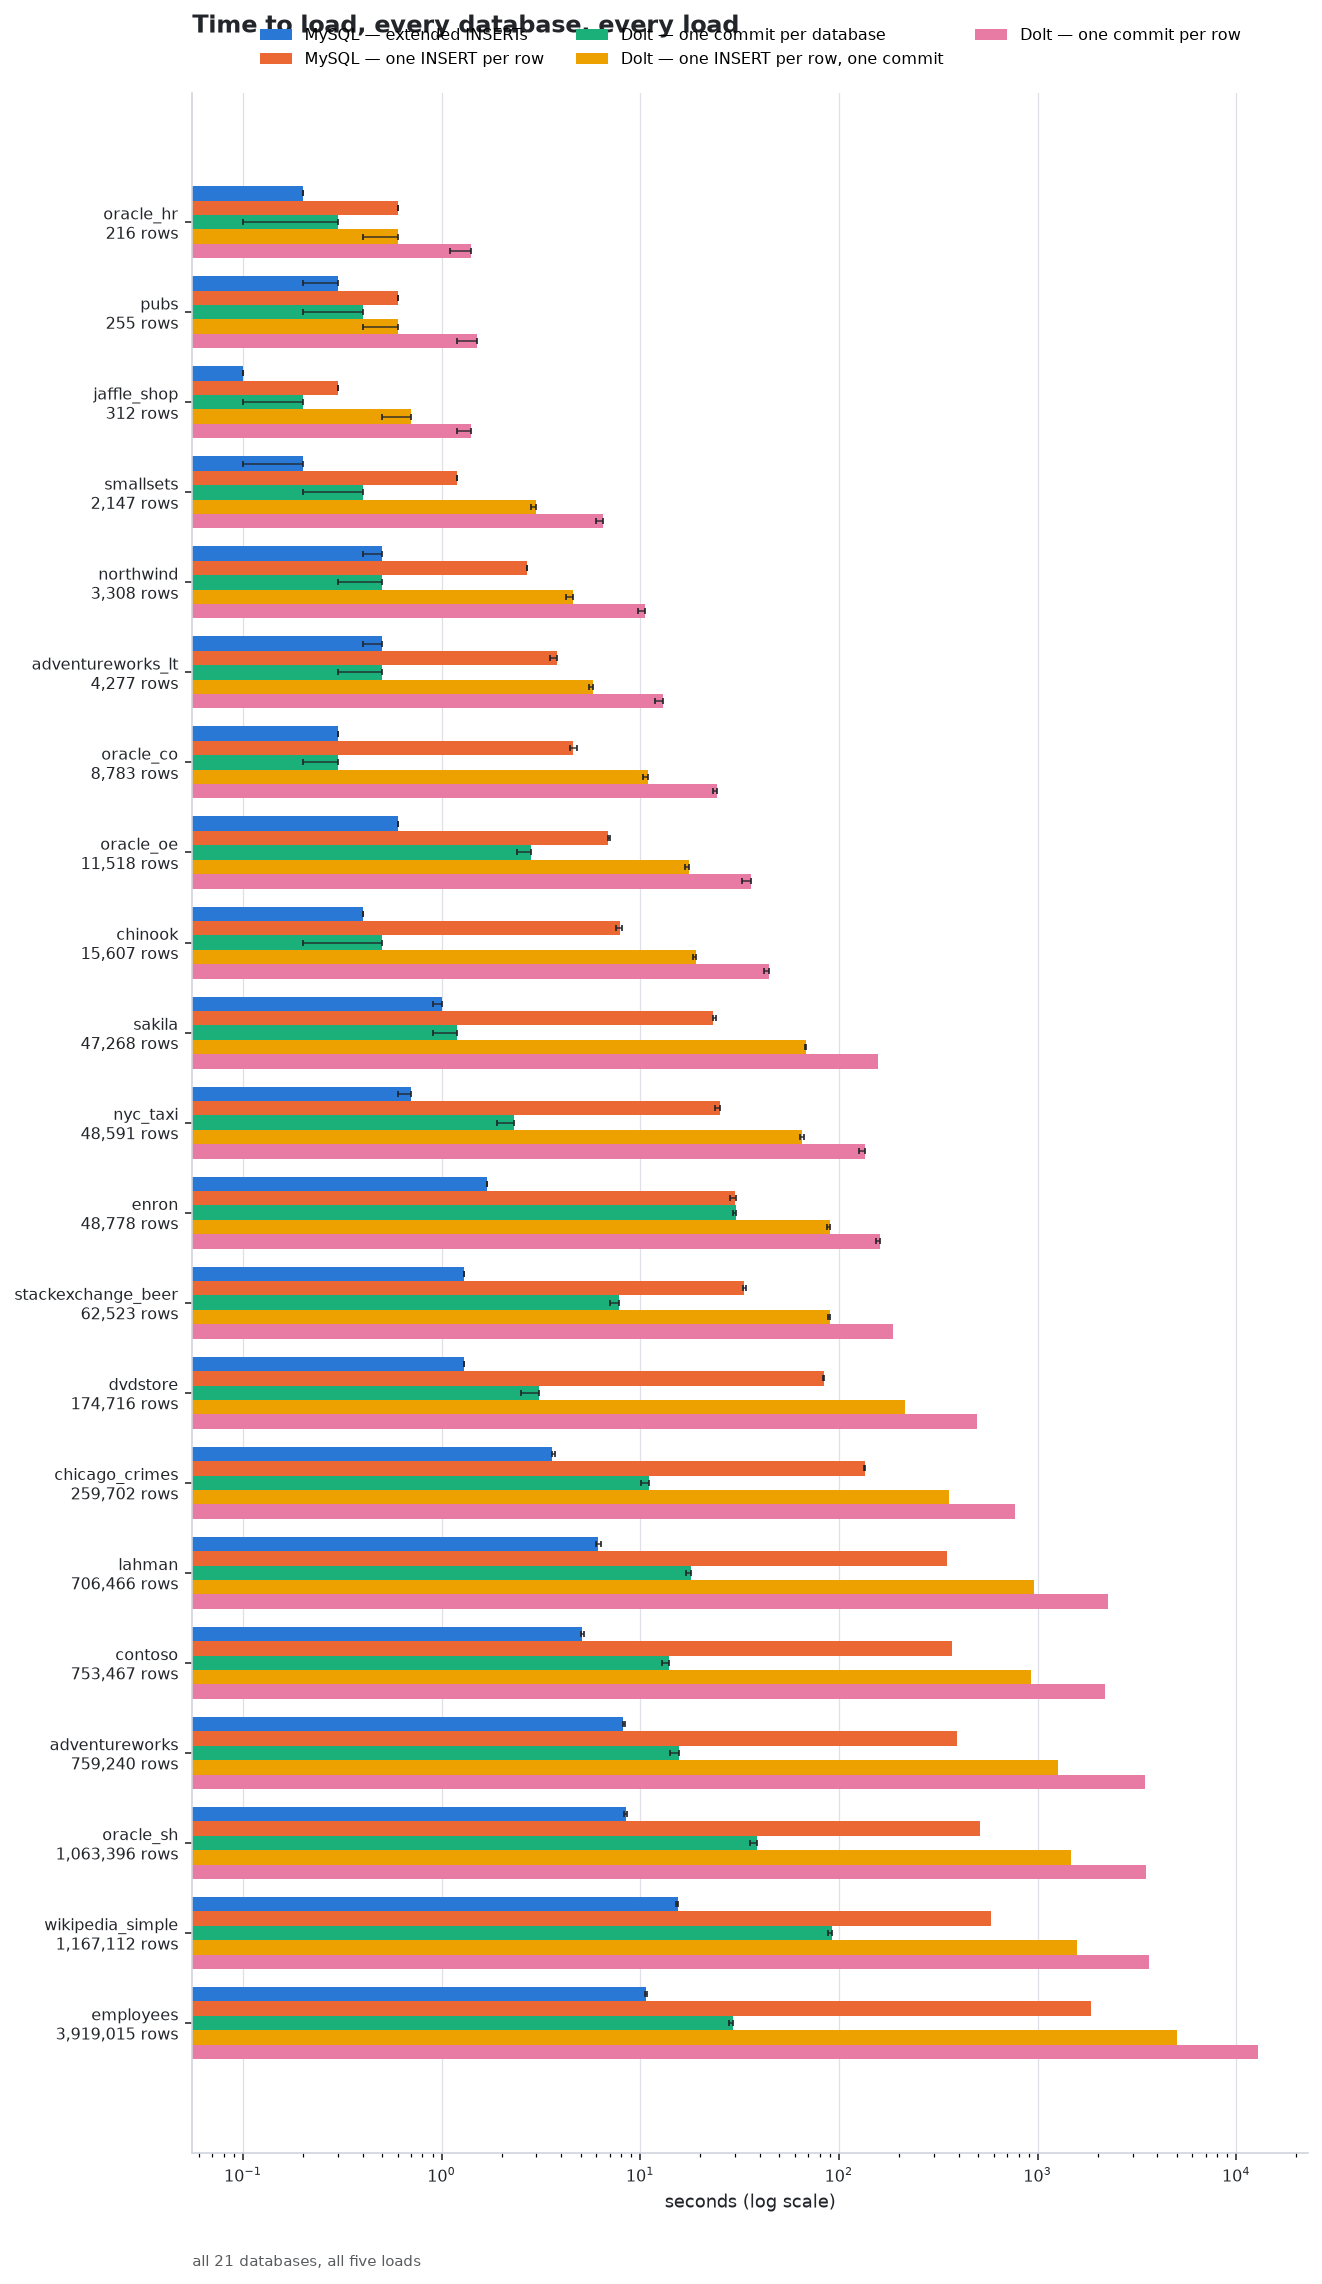
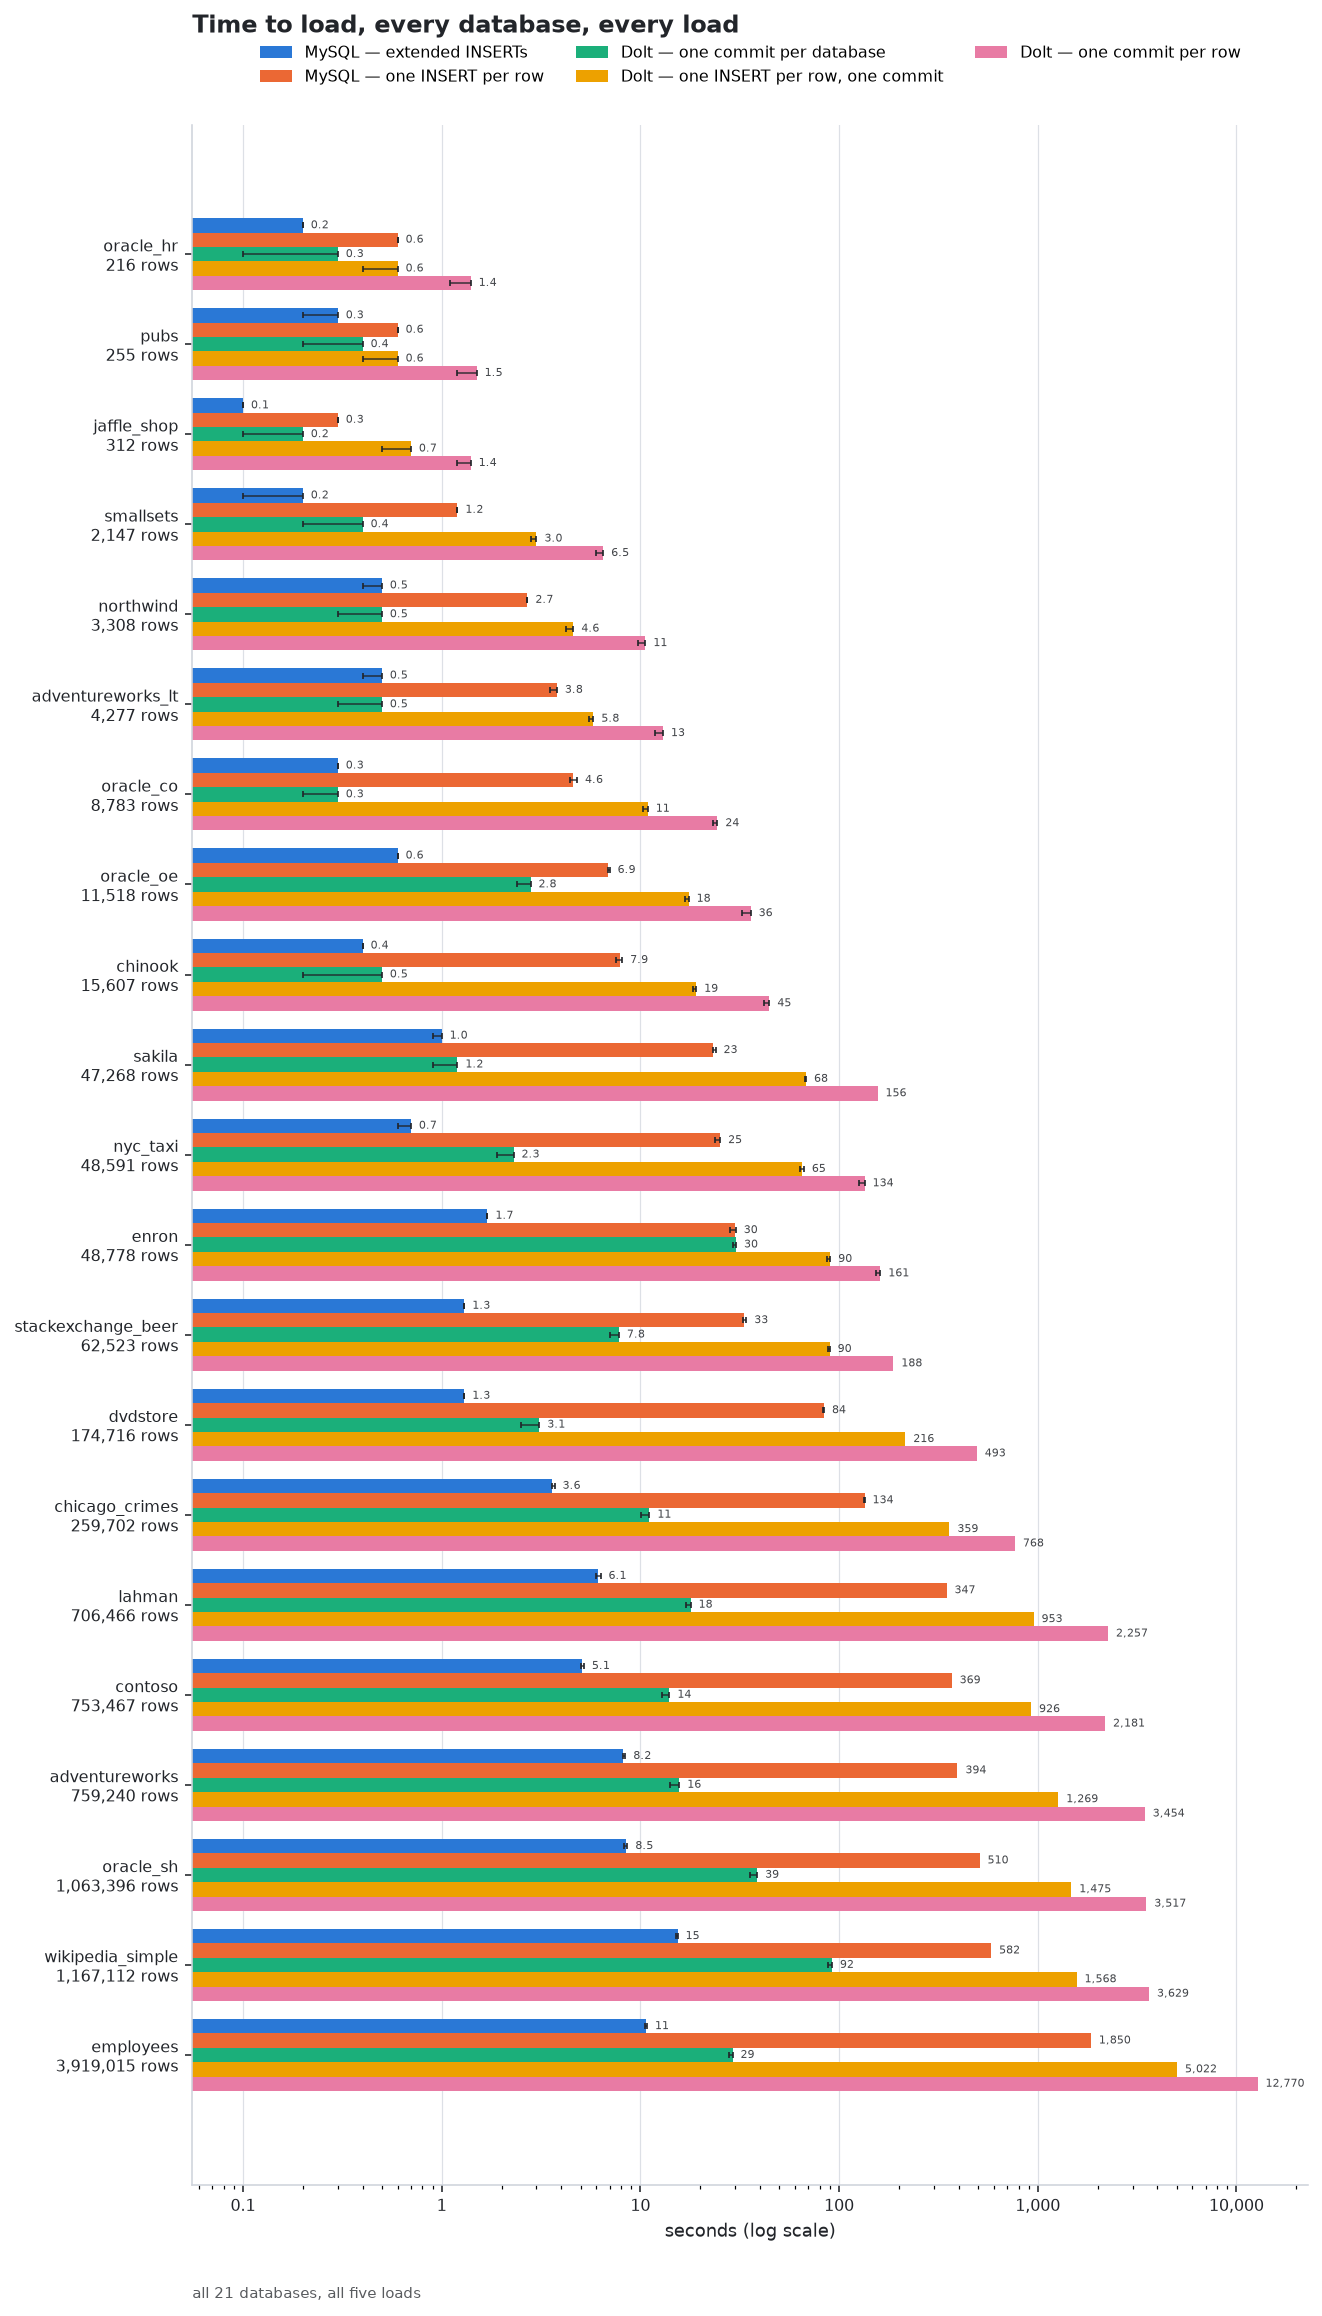
Write real numbers on the log-scale figures
A log axis defaults to labelling 10^3 and 10^4, which is compact and which most
readers convert in their heads before the chart means anything. Every quantity
here is a count of megabytes, seconds or rows, so the ticks are written as
quantities: 1,000 and 100,000, with thousands separators.

Decades only. Labelling the 2x and 5x between them as well was the first attempt
and it made the top of the scale unreadable -- "10,000 20,000 50,000 100,000"
runs together in the width those four labels have.

The exact value goes on each bar instead, which is what a reader wanting a figure
is actually after and is the better answer on a log axis anyway: bar length there
is a deceptive cue, since a bar twice as long is ten times the number. Where a
bar carries a spread whisker the label sits past its upper end rather than
through it -- the first version drew them at the bar end and the whisker cap
struck through the digits, rendering 0.45 as something closer to 9.45.

Claude-Session: https://claude.ai/code/session_01EhSCrz5yzn84WETiKE8735

diff --git a/scripts/charts.py b/scripts/charts.py
@@ -31,6 +31,7 @@ import json, os, sys
 import matplotlib
 matplotlib.use("Agg")
 import matplotlib.pyplot as plt   # noqa: E402
+from matplotlib.ticker import FuncFormatter, LogLocator   # noqa: E402
 
 ROOT = os.path.dirname(os.path.dirname(os.path.abspath(__file__)))
 IMG = os.path.join(ROOT, "docs", "img")
@@ -63,6 +64,43 @@ POLICY_TESTS = ["mysql_rowwise", "dolt_rowinsert", "dolt_rowcommit"]
 # Diverging, because the question is a polarity: does keeping the indexes cost more or less than
 # dropping them? Warm and cool poles with a neutral midpoint, so "no difference" reads as nothing.
 POLICY_MORE, POLICY_LESS, POLICY_NONE = "#e34948", "#2a78d6", "#c9c7c2"
+
+
+def bar_label(v):
+    """A value written beside its bar: compact enough to fit, exact enough to be worth reading."""
+    if v >= 1000:
+        return f"{v:,.0f}"
+    if v >= 10:
+        return f"{v:.0f}"
+    if v >= 1:
+        return f"{v:.1f}"
+    return f"{v:.2f}".rstrip("0").rstrip(".")
+
+
+def plain_number(v, _=None):
+    """A tick label people read as a number.
+
+    A log axis defaults to 10^3, 10^4 and so on, which is compact and which most readers have to
+    convert in their heads before the chart means anything. These are quantities -- megabytes,
+    seconds, rows -- so they are written as quantities, with thousands separators above one and
+    without trailing zeros below it."""
+    if v <= 0:
+        return ""
+    if v >= 1:
+        return f"{v:,.0f}"
+    return f"{v:g}".rstrip("0").rstrip(".") if v < 1 else f"{v:g}"
+
+
+def log_axis(ax, which="x"):
+    """Label a log axis with real numbers rather than powers of ten.
+
+    Decades only. Labelling the 2x and 5x between them as well was the first attempt and it made the
+    top of the scale unreadable -- "10,000 20,000 50,000 100,000" runs together in the width those
+    four labels have. The values themselves go on the bars instead, which is what a reader wanting
+    an exact figure is actually after."""
+    axis = ax.xaxis if which == "x" else ax.yaxis
+    axis.set_major_formatter(FuncFormatter(plain_number))
+    axis.set_minor_formatter(FuncFormatter(lambda *_: ""))
 
 
 def style(ax, title, xlabel, pad=12):
@@ -160,14 +198,24 @@ def by_database(results, axis, name, title, xlabel, scale):
         if vals:
             ax.barh(ys, vals, h, label=LABELS[t], color=COLOURS[t])
             for yy, vv, e in zip(ys, vals, errs):
+                at = vv
                 if e:
                     ax.errorbar(vv, yy, xerr=e, fmt="none", ecolor=INK, elinewidth=.8,
                                 capsize=1.6, alpha=.85)
+                    at = vv + e[1][0]      # past the upper whisker, not through it
+                # The value itself, past the end of the bar. On a log axis the bar length is the
+                # only cue to magnitude and it is a deceptive one -- a bar twice as long is ten
+                # times the number -- so the figure is written out rather than left to be read off
+                # a compressed scale.
+                ax.annotate(bar_label(vv), (at, yy), textcoords="offset points", xytext=(4, 0),
+                            va="center", ha="left", fontsize=5.6, color=INK, alpha=.85)
     ax.set_yticks(list(y), [f"{d}\n{results[d].get('rows_mysql', 0):,} rows" for d in dbs],
                   fontsize=7)
     ax.set_xscale("log")
-    style(ax, title, xlabel, pad=30)
-    ax.legend(fontsize=8, frameon=False, ncol=3, loc="lower center", bbox_to_anchor=(0.5, 1.005))
+    log_axis(ax, "x")
+    style(ax, title, xlabel, pad=46)
+    ax.legend(fontsize=8, frameon=False, ncol=3, loc="lower center",
+              bbox_to_anchor=(0.5, 1.012))
     ax.text(0, -0.055, caption(results, axis), transform=ax.transAxes, fontsize=7.5,
             color=INK, alpha=.75)
     save(fig, name)
@@ -193,6 +241,7 @@ def fig_ratio(results):
     ax.set_yticks(list(y), [f"{d}\n{results[d].get('rows_mysql', 0):,} rows" for d in dbs],
                   fontsize=7)
     ax.set_xscale("log")
+    log_axis(ax, "x")
     style(ax, "Disk used, as a ratio of MySQL loaded from the same dump",
           "left of the line is smaller than MySQL; right of it is larger (log scale)", pad=30)
     if drew:
@@ -226,6 +275,7 @@ def fig_cost_by_mode(results):
             ax.text(b.get_x() + b.get_width() / 2, v * 1.08, text + tag, ha="center", fontsize=8,
                     color=INK, fontweight="bold")
         ax.set_yscale("log")
+        log_axis(ax, "y")
         ax.set_ylabel("megabytes on disk" if axis == "bytes" else "seconds to load",
                       color=INK, fontsize=9)
         style(ax, "Disk" if axis == "bytes" else "Time", "")
@@ -365,6 +415,8 @@ def fig_memory():
                         fontsize=7.5, color=colour, fontweight="bold")
         ax.set_xscale("log")
         ax.set_yscale("log")
+        log_axis(ax, "x")
+        log_axis(ax, "y")
         style(ax, "", xlabel)
         if ax is axes[0]:
             ax.set_ylabel("memory the database needed (MB, log scale)", color=INK, fontsize=9)
